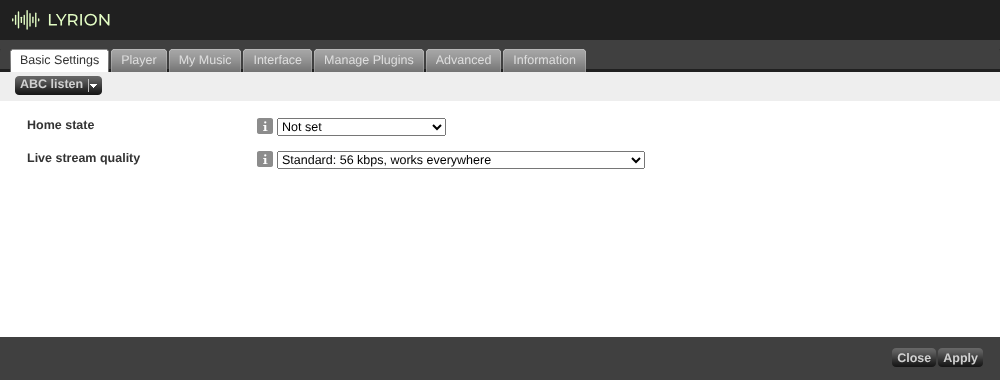
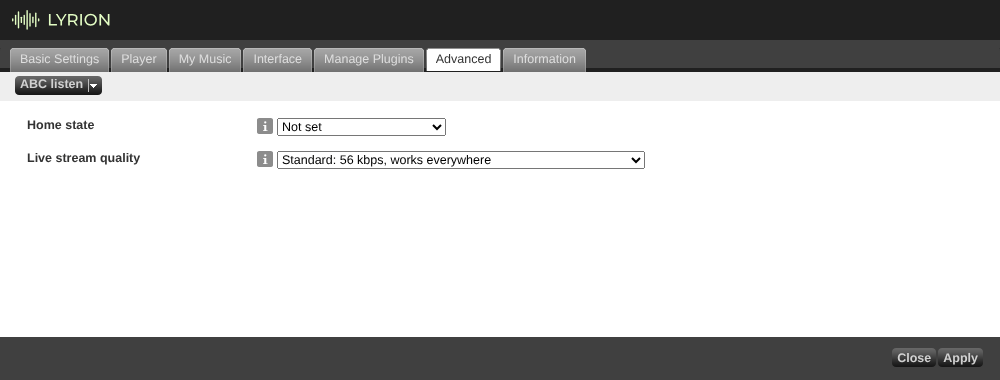
[R2] Screenshots from main with F6, O8 and D9; settings shown under Advanced

Changed region(s): [[0.186, 0.1158, 0.589, 0.2026], [0.0, 0.1158, 0.155, 0.2026]]

diff --git a/README.md b/README.md
@@ -281,7 +281,7 @@ the cover art, updated at every song change (the plugin checks ABC's song data e
 2 minutes, and at the end of each song). Between songs, Now Playing shows the program.
 **Song Info** also has **Recently played**, the last ten songs with their times.
 
-![Now Playing in the Material web interface while Double J plays: the song title (New Shoes), the artist (Sharon Jones & the Dap-Kings), the program and station (Live at the Wireless · Double J) and the song's artwork](docs/images/material-now-playing.png)
+![Now Playing in the Material web interface while triple j plays: the song title (Adeline), the artist (Old Mervs), the program and station (Weekends · triple j) and the album cover](docs/images/material-now-playing.png)
 
 **Episodes** show the episode's title, the program, the episode's artwork and its duration, and
 can be sought. **Song Info** for an episode has **Episode notes**, **More from** *program*, its
